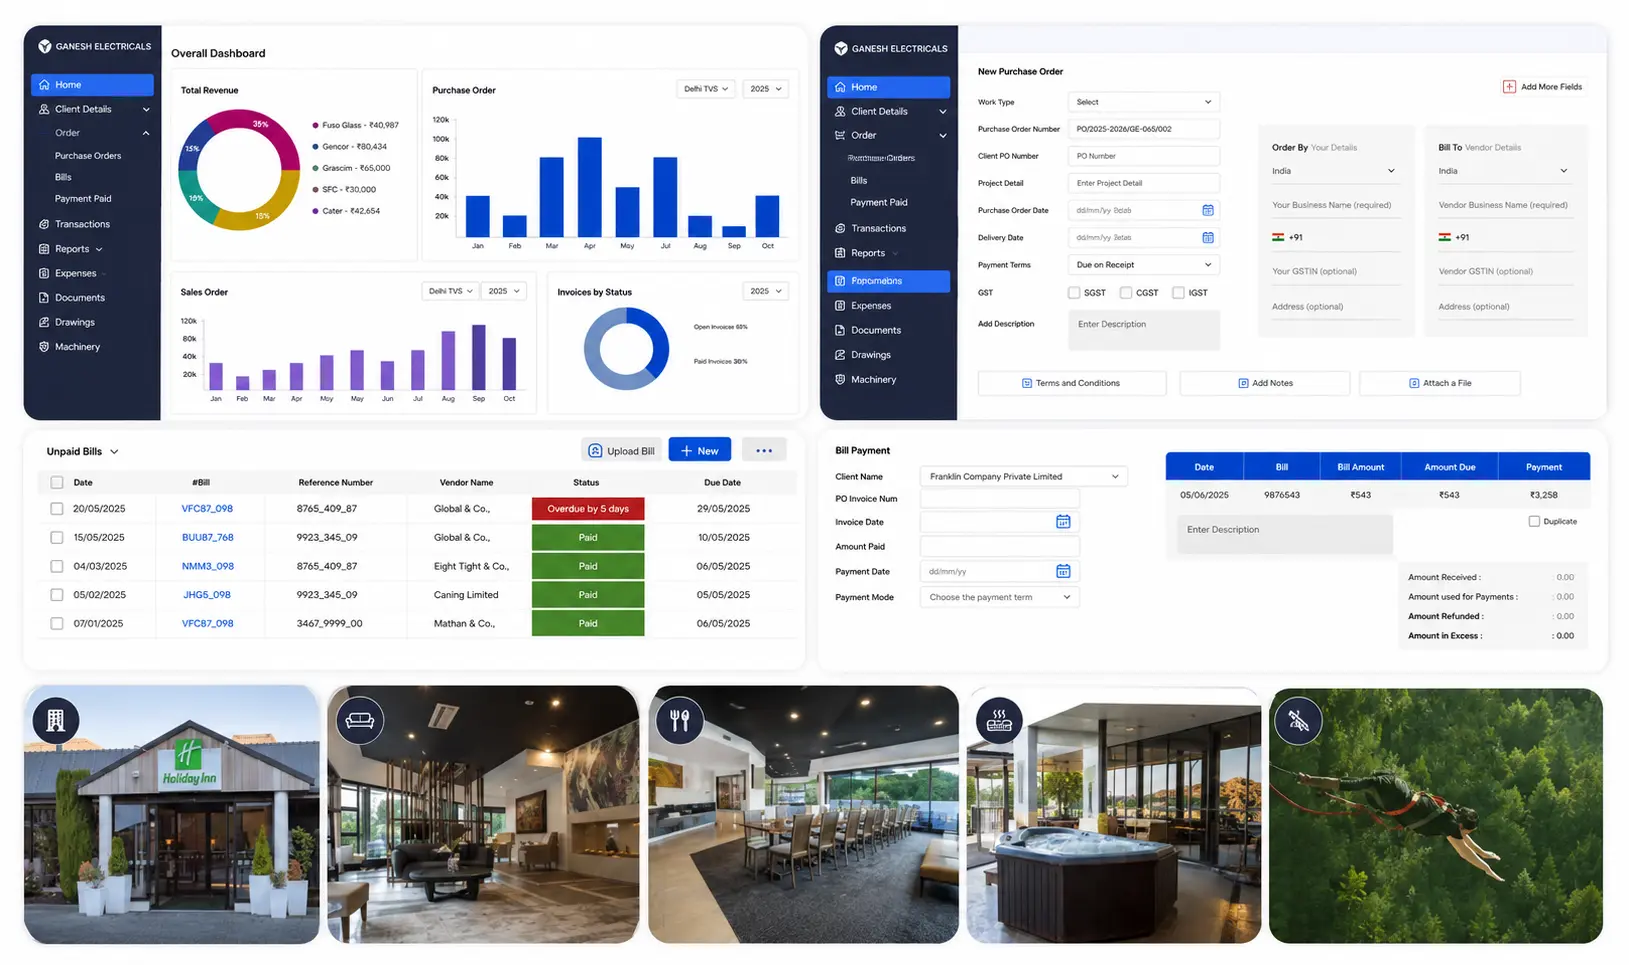
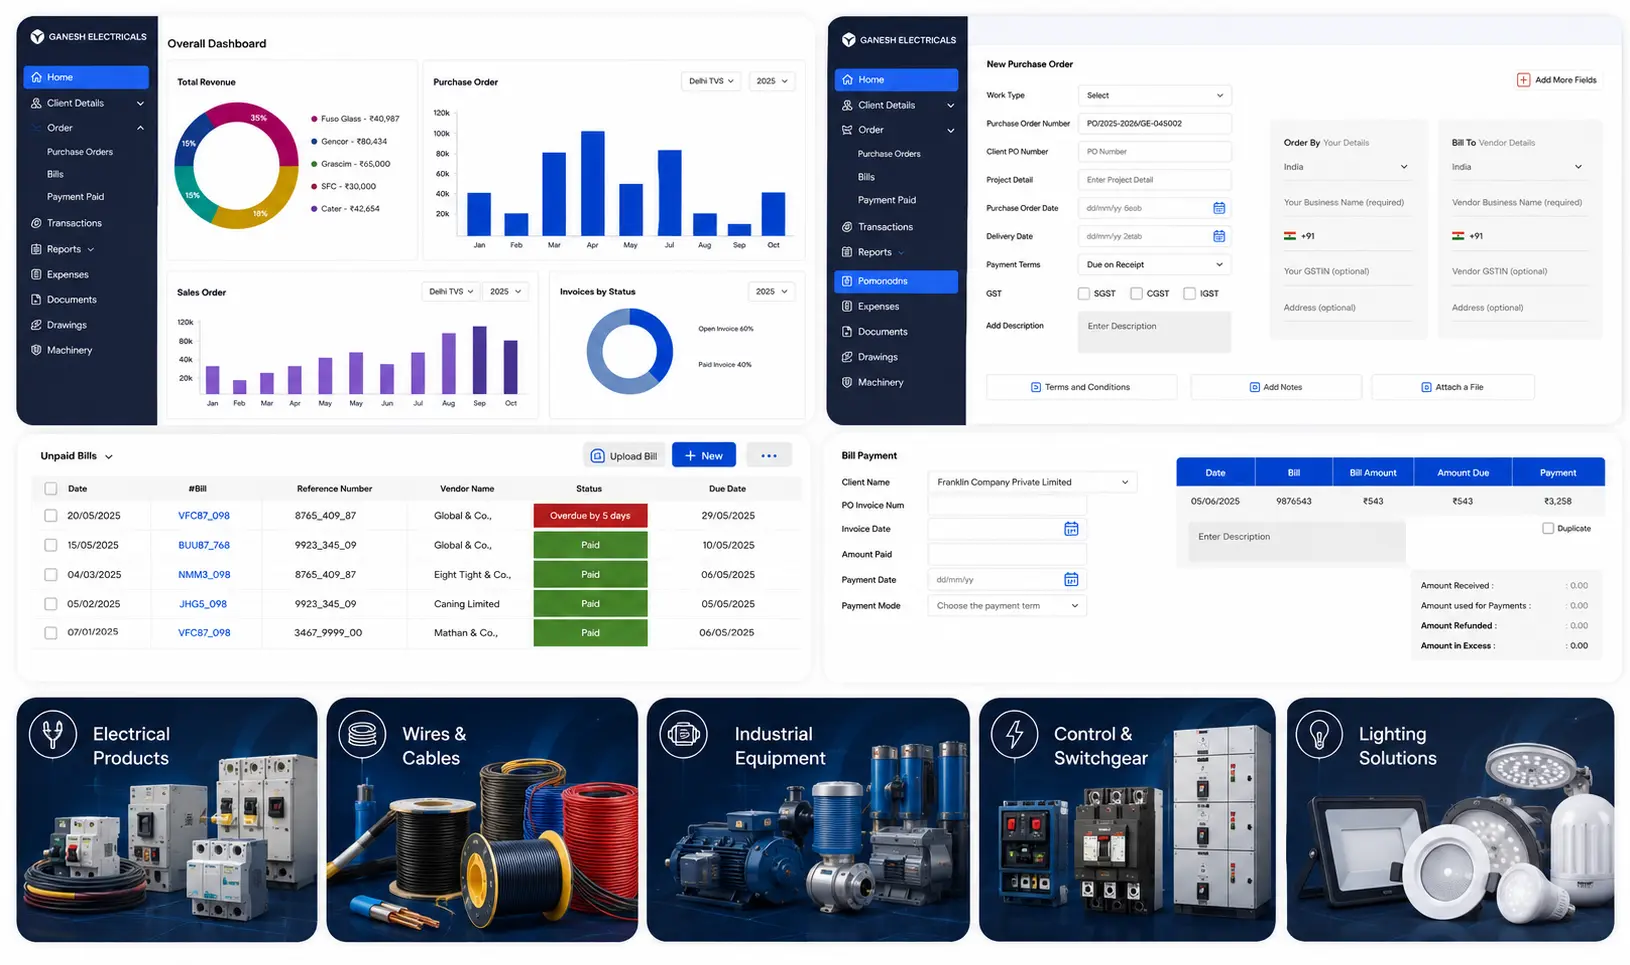
merge: resolve conflict in hww2 track - take upstream values

diff --git a/public/Assets/css/mobile-app.css b/public/Assets/css/mobile-app.css
@@ -1351,8 +1351,10 @@ html.lenis body {
     width: max-content;
 }
 
-.hv2__marquee:hover .hv2__marquee-track {
-    animation-play-state: paused;
+@media (min-width: 769px) {
+    .hv2__marquee:hover .hv2__marquee-track {
+        animation-play-state: paused;
+    }
 }
 
 @keyframes hv2-scroll {
@@ -1435,6 +1437,12 @@ html.lenis body {
 
     .hv2__stores {
         justify-content: center;
+        flex-wrap: wrap;
+    }
+
+    .hv2__stores-label {
+        width: 100%;
+        text-align: center;
     }
 
     .hv2__badge {
@@ -2704,6 +2712,14 @@ html.lenis body {
     }
 }
 
+@media (max-width: 400px) {
+    .hv2__store-pill {
+        font-size: 11px;
+        padding: 6px 10px;
+        gap: 5px;
+    }
+}
+
 @media (prefers-reduced-motion: reduce) {
     .hww2-reveal {
         opacity: 1;
@@ -3538,7 +3554,13 @@ html.lenis body {
         white-space: normal;
     }
 
+    .wcus__desc-wrap {
+        min-height: unset;
+        margin-top: 24px;
+    }
+
     .wcus__desc {
+        position: static;
         font-size: 15px;
     }
 }
@@ -4963,7 +4985,7 @@ html.lenis body {
     color: var(--fq-white);
     line-height: 1.04;
     letter-spacing: -0.03em;
-    margin: 0;
+    margin: 0 0 12px;
     opacity: 0;
     transform: translateY(28px);
     transition: opacity 0.7s var(--fq-ease) 0.06s, transform 0.7s var(--fq-ease) 0.06s;

diff --git a/public/Assets/css/resources.css b/public/Assets/css/resources.css
@@ -2093,6 +2093,10 @@ textarea.error-border {
 
 @media(max-width:768px) {
 
+    .footer-services-col {
+        width: 100% !important;
+    }
+
     .wa-float {
 
         width: 60px;

diff --git a/resources/views/services/business/mobile-app-australia.blade.php b/resources/views/services/business/mobile-app-australia.blade.php
@@ -36,7 +36,7 @@
                     <!-- Menu -->
                     <ul class="nav-menu">
                         <li><a href="#hv2">Home</a></li>
-                        <li><a href="#wdm">About Us</a></li>
+                        {{-- <li><a href="#wdm">About Us</a></li> --}}
 <li><a href="#mpfSection">Portfolio</a></li>
                         <li><a href="#ctaf">Contact Us</a></li>
 
@@ -97,7 +97,7 @@
                 {{-- Badge --}}
                 <div class="hv2__badge animate-hv2" data-hv2-delay="0">
                     <span class="hv2__badge-icon" aria-hidden="true"><i class="bi bi-star-fill"></i></span>
-                    Leading App Development Company in Melbourne 2026
+                    Leading App Development Company in Melbourne
                 </div>
 
                 {{-- H1 --}}
@@ -516,7 +516,7 @@
                 How we work
             </div>
             <h2 class="hww2__h2 hww2-reveal" data-hww2-delay="90">
-                Smooth Journey from<br>Idea to Launch.
+                Smooth Journey from Idea to Launch.
             </h2>
         </div>
 
@@ -547,7 +547,7 @@
             <div class="hww2__step">
                 <div class="hww2__step-top">
                     <span class="hww2__step-num">02</span>
-                    <h3 class="hww2__step-title">Wireframe & User Flows</h3>
+                    <h3 class="hww2__step-title">User Flows</h3>
                 </div>
                 <div class="hww2__step-marker" aria-hidden="true"></div>
                 <div class="hww2__step-bot">
@@ -1344,7 +1344,7 @@
                         <div class="prc__spiral-float" x-show="activeTab === 'project'"
                              x-transition:enter="prc-e" x-transition:enter-start="prc-e-from" x-transition:enter-end="prc-e-to"
                              x-transition:leave="prc-l" x-transition:leave-start="prc-l-from" x-transition:leave-end="prc-l-to">
-                            <img src="http://cdn.prod.website-files.com/6968c40c3d0877f59b6c1749/69a0555435a3d8d416145233_Container%20(2).webp"
+                            <img src="{{ asset('Assets/Images/Mobile-App/project-based.webp') }}"
                                  alt="" class="prc__spiral" loading="lazy" decoding="async">
                         </div>
 
@@ -1443,7 +1443,7 @@
                 <h2 class="faq-section__heading" id="faq-title">
                     Frequently Asked Questions
                 </h2>
-                <img src="{{ asset('Assets/Images/Contact-us/contact-address.webp') }}" alt="FAQ" class="faq-section__img">
+                <img src="{{ asset('Assets/Images/Mobile-App/faq.webp') }}" alt="FAQ" class="faq-section__img d-none d-md-block">
             </div>
 
             {{-- Right: accordion list --}}

diff --git a/resources/views/partials/footer.blade.php b/resources/views/partials/footer.blade.php
@@ -73,7 +73,7 @@
                     <!-- SERVICES -->
                     <div class="col-lg-4 col-md-4 d-flex justify-content-center">
 
-                        <div class="footer-links-col " style="width: 70%;">
+                        <div class="footer-links-col footer-services-col" style="width: 70%;">
 
                             <h4>Services</h4>
 